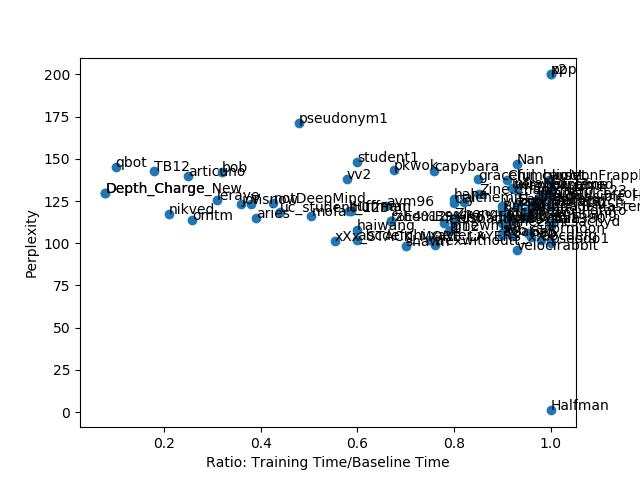
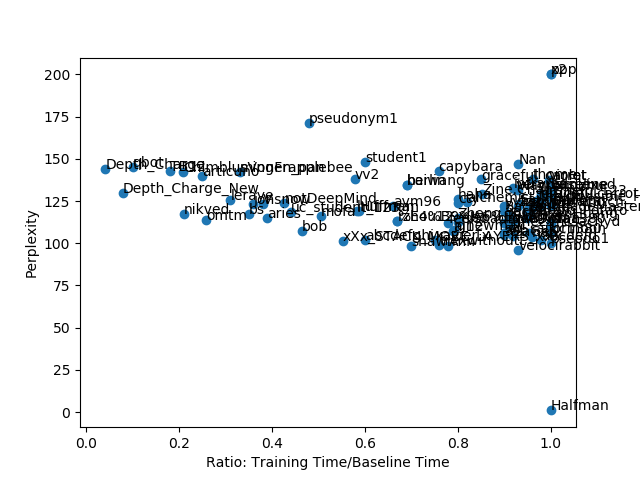
s

diff --git a/README.md b/README.md
@@ -250,6 +250,11 @@ then here and will get smaller than they ca n't change the <unk> <eos> and since
 
 Use pre-trained word embeddings and fix the word embeddings without training them. Find the clustering of them, relabel the words to the corresponding cluster label in the corpus and use reasonable number of classes and number of tokens per class in the hierarchical softmax. I bet this will improve both training efficiency and perplexity.
 
+## Competition Outcome
+
+![](paretopoint.png)
+
+The "Depth_Charge" and "Depth_Charge_New" are my pareto points (somehow the script allows me to submit results multiple times...). These two points are on the pareto curve, and are considered to be the "winner" points.
 
 ## Reference
 
